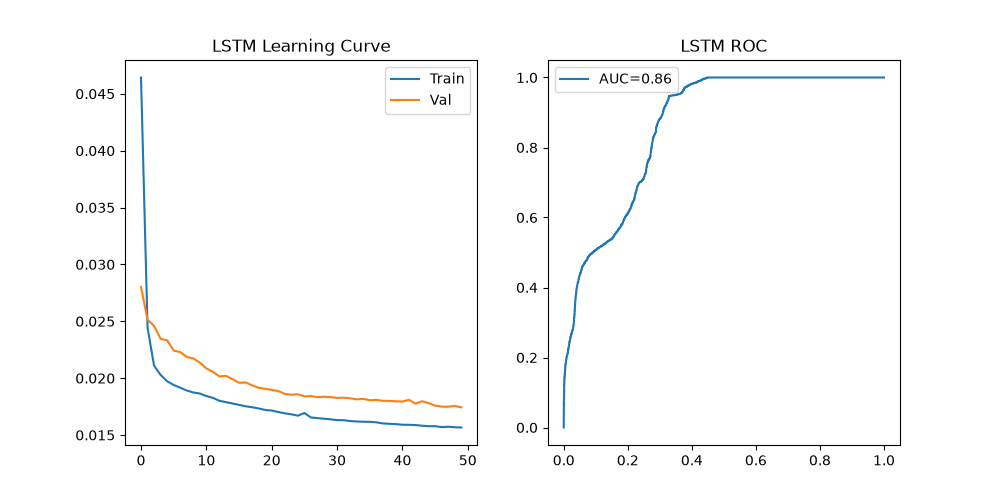
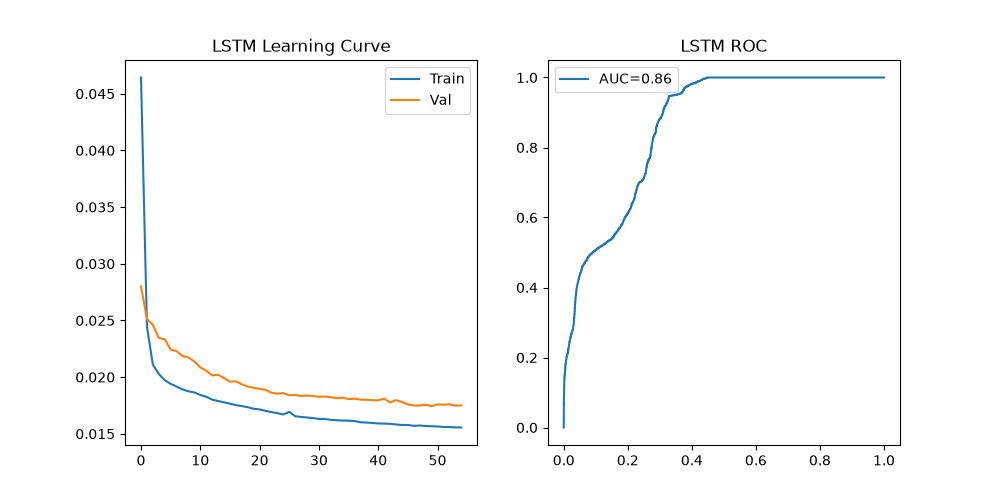
batch sie 64 to 32

diff --git a/LSTM_Model/lstm_main.py b/LSTM_Model/lstm_main.py
@@ -59,7 +59,7 @@ def run_lstm_pipeline():
     early_stopping = EarlyStopping(monitor='val_loss', patience=5, restore_best_weights=True)
     
     print("Training LSTM...")
-    history = model.fit(X_train, X_train, epochs=50, batch_size=64, validation_split=0.15, callbacks=[early_stopping], verbose=1)
+    history = model.fit(X_train, X_train, epochs=100, batch_size=32, validation_split=0.15, callbacks=[early_stopping], verbose=1)
     
     print("Evaluating LSTM...")
     X_val = X_train[int(len(X_train)*0.85):]
